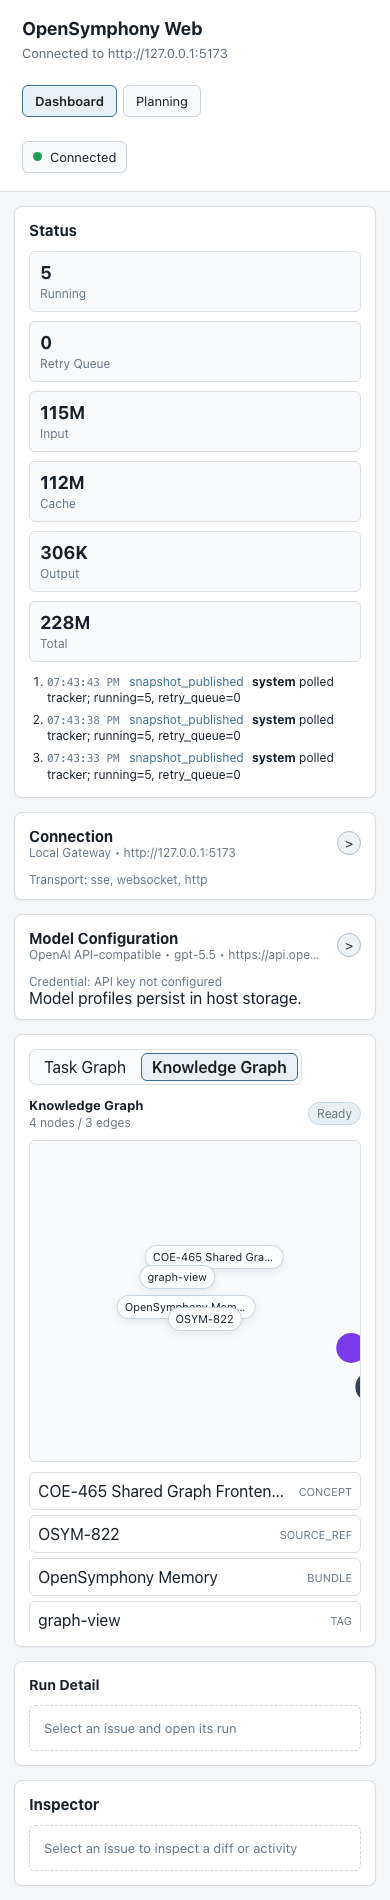
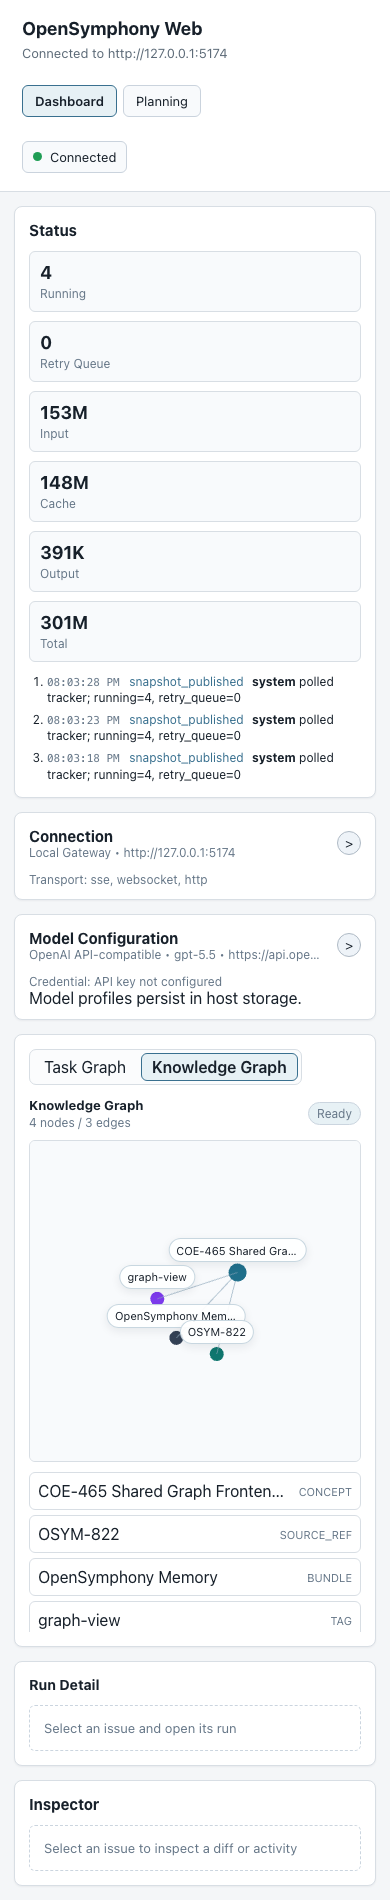
fix(graph): address renderer review feedback

diff --git a/packages/ui-core/src/knowledge-graph-renderer.ts b/packages/ui-core/src/knowledge-graph-renderer.ts
@@ -67,11 +67,10 @@ export function mountKnowledgeGraphRenderer(
     canvas.height = Math.floor(viewport.height * viewport.ratio);
     canvas.style.width = `${viewport.width}px`;
     canvas.style.height = `${viewport.height}px`;
-    const threeCanvas = document.createElement("canvas");
-    threeCanvas.width = canvas.width;
-    threeCanvas.height = canvas.height;
-    void drawThree(threeCanvas, options.layout!, options.selectedNodeIds, view);
-    drawCanvas2d(canvas, options.layout!, options.selectedNodeIds, view);
+    if (!drawThree(canvas, viewport, options.layout!, options.selectedNodeIds, view)) {
+      drawCanvas2d(canvas, options.layout!, options.selectedNodeIds, view);
+    }
+    syncLabels(root, options.layout!, view, viewport);
     canvas.dataset.nonblank = options.layout!.nodes.length > 0 ? "true" : "false";
   };
   draw();
@@ -161,31 +160,74 @@ function renderFallbackList(snapshot: MemoryGraphSnapshot | null, selectedNodeId
   `;
 }
 
+interface ThreeCanvasState {
+  renderer: THREE.WebGLRenderer;
+  scene: THREE.Scene;
+  camera: THREE.OrthographicCamera;
+}
+
+const threeCanvasState = new WeakMap<HTMLCanvasElement, ThreeCanvasState>();
+
 function drawThree(
   canvas: HTMLCanvasElement,
+  viewport: { width: number; height: number; ratio: number },
   layout: GraphLayoutResult,
   selectedNodeIds: readonly string[],
   view: { scale: number; dx: number; dy: number },
 ): boolean {
-  const context = canvas.getContext("webgl2") ?? canvas.getContext("webgl");
-  if (!context) return false;
   try {
-    const renderer = new THREE.WebGLRenderer({ canvas, context, antialias: true, preserveDrawingBuffer: true });
-    const width = canvas.width;
-    const height = canvas.height;
-    renderer.setSize(width, height, false);
-    renderer.setClearColor(0xf8fafc, 1);
-    const scene = new THREE.Scene();
-    const camera = new THREE.OrthographicCamera(-width / 2, width / 2, height / 2, -height / 2, 1, 2000);
-    camera.position.set(0, 0, 800);
-    scene.add(edgeSegments(layout, view));
-    scene.add(nodeInstances(layout, selectedNodeIds, view));
-    renderer.render(scene, camera);
-    renderer.dispose();
+    const state = threeStateFor(canvas);
+    disposeScene(state.scene);
+    state.renderer.setPixelRatio(viewport.ratio);
+    state.renderer.setSize(viewport.width, viewport.height, false);
+    state.renderer.setClearColor(0xf8fafc, 1);
+    state.renderer.clear(true, true, true);
+    state.camera.left = -viewport.width / 2;
+    state.camera.right = viewport.width / 2;
+    state.camera.top = viewport.height / 2;
+    state.camera.bottom = -viewport.height / 2;
+    state.camera.updateProjectionMatrix();
+    state.scene.clear();
+    state.scene.add(edgeSegments(layout, view));
+    state.scene.add(nodeInstances(layout, selectedNodeIds, view));
+    state.renderer.render(state.scene, state.camera);
     return true;
   } catch {
     return false;
   }
+}
+
+function threeStateFor(canvas: HTMLCanvasElement): ThreeCanvasState {
+  const existing = threeCanvasState.get(canvas);
+  if (existing) return existing;
+  const contextAttributes = { alpha: false, antialias: true, preserveDrawingBuffer: true };
+  const context = (canvas.getContext("webgl2", contextAttributes) as WebGL2RenderingContext | null)
+    ?? (canvas.getContext("webgl", contextAttributes) as WebGLRenderingContext | null);
+  if (!context) throw new Error("WebGL is unavailable");
+  const renderer = new THREE.WebGLRenderer({
+    canvas,
+    context,
+    alpha: false,
+    antialias: true,
+    preserveDrawingBuffer: true,
+  });
+  const scene = new THREE.Scene();
+  const camera = new THREE.OrthographicCamera(-1, 1, 1, -1, 1, 2000);
+  camera.position.set(0, 0, 800);
+  const state = { renderer, scene, camera };
+  threeCanvasState.set(canvas, state);
+  return state;
+}
+
+function disposeScene(scene: THREE.Scene): void {
+  scene.traverse((object) => {
+    const mesh = object as THREE.Mesh | THREE.LineSegments;
+    if ("geometry" in mesh) mesh.geometry.dispose();
+    const materials = "material" in mesh
+      ? Array.isArray(mesh.material) ? mesh.material : [mesh.material]
+      : [];
+    for (const material of materials) material.dispose();
+  });
 }
 
 function edgeSegments(layout: GraphLayoutResult, view: { scale: number; dx: number; dy: number }): THREE.LineSegments {
@@ -207,20 +249,29 @@ function nodeInstances(
   layout: GraphLayoutResult,
   selectedNodeIds: readonly string[],
   view: { scale: number; dx: number; dy: number },
-): THREE.InstancedMesh {
+): THREE.Group {
   const selected = new Set(selectedNodeIds);
-  const geometry = new THREE.CircleGeometry(1, 24);
-  const material = new THREE.MeshBasicMaterial({ color: 0x1f6f8b });
-  const mesh = new THREE.InstancedMesh(geometry, material, layout.nodes.length);
-  const matrix = new THREE.Matrix4();
-  layout.nodes.forEach((node, index) => {
-    const [x, y, z] = projectPoint(node.x, node.y, node.z, layout, view);
-    const scale = (selected.has(node.nodeId) ? node.radius + 4 : node.radius) * view.scale;
-    matrix.compose(new THREE.Vector3(x, y, z), new THREE.Quaternion(), new THREE.Vector3(scale, scale, 1));
-    mesh.setMatrixAt(index, matrix);
-  });
-  mesh.instanceMatrix.needsUpdate = true;
-  return mesh;
+  const grouped = new Map<string, GraphLayoutResult["nodes"]>();
+  for (const node of layout.nodes) {
+    const color = selected.has(node.nodeId) ? "#c2410c" : colorForKind(node.kind);
+    grouped.set(color, [...(grouped.get(color) ?? []), node]);
+  }
+  const group = new THREE.Group();
+  for (const [color, nodes] of grouped) {
+    const geometry = new THREE.CircleGeometry(1, 24);
+    const material = new THREE.MeshBasicMaterial({ color });
+    const mesh = new THREE.InstancedMesh(geometry, material, nodes.length);
+    const matrix = new THREE.Matrix4();
+    nodes.forEach((node, index) => {
+      const [x, y, z] = projectPoint(node.x, node.y, node.z, layout, view);
+      const scale = (selected.has(node.nodeId) ? node.radius + 4 : node.radius) * view.scale;
+      matrix.compose(new THREE.Vector3(x, y, z), new THREE.Quaternion(), new THREE.Vector3(scale, scale, 1));
+      mesh.setMatrixAt(index, matrix);
+    });
+    mesh.instanceMatrix.needsUpdate = true;
+    group.add(mesh);
+  }
+  return group;
 }
 
 function drawCanvas2d(
@@ -278,6 +329,22 @@ function nearestNode(
     if (distance <= 24 && (!best || distance < best.distance)) best = { id: node.nodeId, distance };
   }
   return best?.id ?? null;
+}
+
+function syncLabels(
+  root: HTMLElement,
+  layout: GraphLayoutResult,
+  view: { scale: number; dx: number; dy: number },
+  viewport: { width: number; height: number },
+): void {
+  root.querySelectorAll<HTMLElement>(".os-kg-label[data-kg-node-id]").forEach((label) => {
+    const nodeId = label.dataset.kgNodeId;
+    const node = layout.nodes.find((candidate) => candidate.nodeId === nodeId);
+    if (!node) return;
+    const point = canvasPoint(node.x, node.y, layout, view, viewport);
+    label.style.left = `${point.x}px`;
+    label.style.top = `${point.y}px`;
+  });
 }
 
 function canvasViewport(stage: HTMLElement | null): { width: number; height: number; ratio: number } {

diff --git a/packages/graph/src/index.ts b/packages/graph/src/index.ts
@@ -568,66 +568,20 @@ function normalizeFilters(filters: GraphFilters): GraphFilters {
 }
 
 function defaultGraphLayoutWorkerFactory(): Worker | null {
-  if (typeof Worker === "undefined" || typeof Blob === "undefined" || typeof URL === "undefined") return null;
+  if (typeof Worker === "undefined" || typeof URL === "undefined") return null;
   try {
-    const source = `
-      self.onmessage = (event) => {
-        const { id, snapshot, options } = event.data;
-        try {
-          const width = Math.max(320, options.width || 720);
-          const height = Math.max(240, options.height || 420);
-          const ids = new Set(snapshot.nodes.map((node) => node.id));
-          const edges = snapshot.edges.filter((edge) => ids.has(edge.source_id) && ids.has(edge.target_id));
-          const order = [...snapshot.nodes].sort((a, b) => a.id.localeCompare(b.id));
-          const nodes = order.map((node, index) => {
-            let x = width / 2;
-            let y = height / 2;
-            if (options.kind === "hierarchical") {
-              const levels = { bundle: 0, directory: 1, concept: 2, tag: 3, resource: 3, citation: 4, source_ref: 4 };
-              const level = levels[node.kind] ?? 2;
-              const same = order.filter((candidate) => (levels[candidate.kind] ?? 2) === level);
-              x = ((level + 1) / 6) * width;
-              y = ((same.findIndex((candidate) => candidate.id === node.id) + 1) / (same.length + 1)) * height;
-            } else if (options.kind === "timeline") {
-              x = ((index + 1) / (order.length + 1)) * width;
-              y = ((["bundle", "concept", "tag", "source_ref"].indexOf(node.kind) + 2) / 6) * height;
-            } else {
-              const angle = (Math.PI * 2 * index) / Math.max(1, order.length) - Math.PI / 2;
-              const radius = node.id === options.focusedNodeId ? 0 : Math.min(width, height) * (options.kind === "radial" ? 0.3 : 0.24);
-              x = width / 2 + Math.cos(angle) * radius;
-              y = height / 2 + Math.sin(angle) * radius;
-            }
-            return {
-              nodeId: node.id,
-              x,
-              y,
-              z: node.metrics && node.metrics.community_id ? 12 : 0,
-              radius: node.kind === "concept" ? 9 : 7,
-              label: node.label,
-              kind: node.kind,
-              communityId: node.metrics && node.metrics.community_id,
-            };
-          });
-          self.postMessage({
-            id,
-            result: {
-              kind: options.kind,
-              width,
-              height,
-              nodes,
-              edges: edges.map((edge) => ({ edgeId: edge.id, sourceId: edge.source_id, targetId: edge.target_id })),
-              generatedAt: new Date().toISOString(),
-            },
-          });
-        } catch (error) {
-          self.postMessage({ id, error: error && error.message ? error.message : String(error) });
-        }
-      };
-    `;
-    return new Worker(URL.createObjectURL(new Blob([source], { type: "text/javascript" })));
+    return new Worker(new URL("./layout-worker.js", graphWorkerBaseUrl()).href, { type: "module" });
   } catch {
     return null;
   }
+}
+
+function graphWorkerBaseUrl(): string {
+  if (typeof document !== "undefined") {
+    const currentScript = document.currentScript;
+    if (currentScript instanceof HTMLScriptElement && currentScript.src) return currentScript.src;
+  }
+  return globalThis.location?.href ?? "http://localhost/";
 }
 
 function forceLayout(

diff --git a/packages/ui-core/src/app-shell.ts b/packages/ui-core/src/app-shell.ts
@@ -286,6 +286,7 @@ class OpenSymphonyApp implements OpenSymphonyAppHandle {
   constructor(options: OpenSymphonyAppOptions) {
     this.options = options;
     this.transport = options.transport;
+    this.installBrowserGraphLayoutAdapter();
     const profiles = options.initialProfiles ?? [];
     const activeProfile = profiles.find((profile) => profile.active) ?? profiles[0] ?? null;
     const modelProfiles = options.initialModelProfiles ?? defaultModelProfiles();
@@ -906,6 +907,18 @@ class OpenSymphonyApp implements OpenSymphonyAppHandle {
       onFocus: (nodeId) => {
         this.state.knowledgeGraph = graphReducer(this.state.knowledgeGraph, { type: "NODE_FOCUSED", nodeId });
       },
+    });
+  }
+
+  private installBrowserGraphLayoutAdapter(): void {
+    const processEnv = (globalThis as { process?: { env?: Record<string, string | undefined> } }).process?.env;
+    if (typeof Worker === "undefined" || processEnv?.JEST_WORKER_ID) return;
+    void import("./graph-layout-worker-factory.js").then(({ createBrowserGraphLayoutAdapter }) => {
+      if (this.destroyed) return;
+      this.graphLayoutAdapter.dispose();
+      this.graphLayoutAdapter = createBrowserGraphLayoutAdapter();
+    }).catch(() => {
+      this.graphLayoutAdapter = createGraphLayoutAdapter(() => null);
     });
   }
 

diff --git a/packages/ui-core/src/graph-layout-worker-factory.ts b/packages/ui-core/src/graph-layout-worker-factory.ts
@@ -1,0 +1,12 @@
+import { createGraphLayoutAdapter, type GraphLayoutAdapter } from "@opensymphony/graph";
+
+export function createBrowserGraphLayoutAdapter(): GraphLayoutAdapter {
+  return createGraphLayoutAdapter(() => {
+    if (typeof Worker === "undefined") return null;
+    try {
+      return new Worker(new URL("../../graph/src/layout-worker.ts", import.meta.url), { type: "module" });
+    } catch {
+      return null;
+    }
+  });
+}

diff --git a/docs/DEVELOPMENT.md b/docs/DEVELOPMENT.md
@@ -80,6 +80,11 @@ cd apps/desktop/src-tauri
 cargo run
 ```
 
+The frontend workspace intentionally does not commit an npm lockfile today:
+`package-lock.json` is listed in `.gitignore`, and CI installs from the
+workspace package manifests with `npm install`. Revisit that policy before
+release packaging or other supply-chain-sensitive frontend dependency changes.
+
 `cargo run` rebuilds the desktop frontend first, so local source changes under
 `apps/desktop` and shared frontend packages are reflected in the Tauri shell.
 
